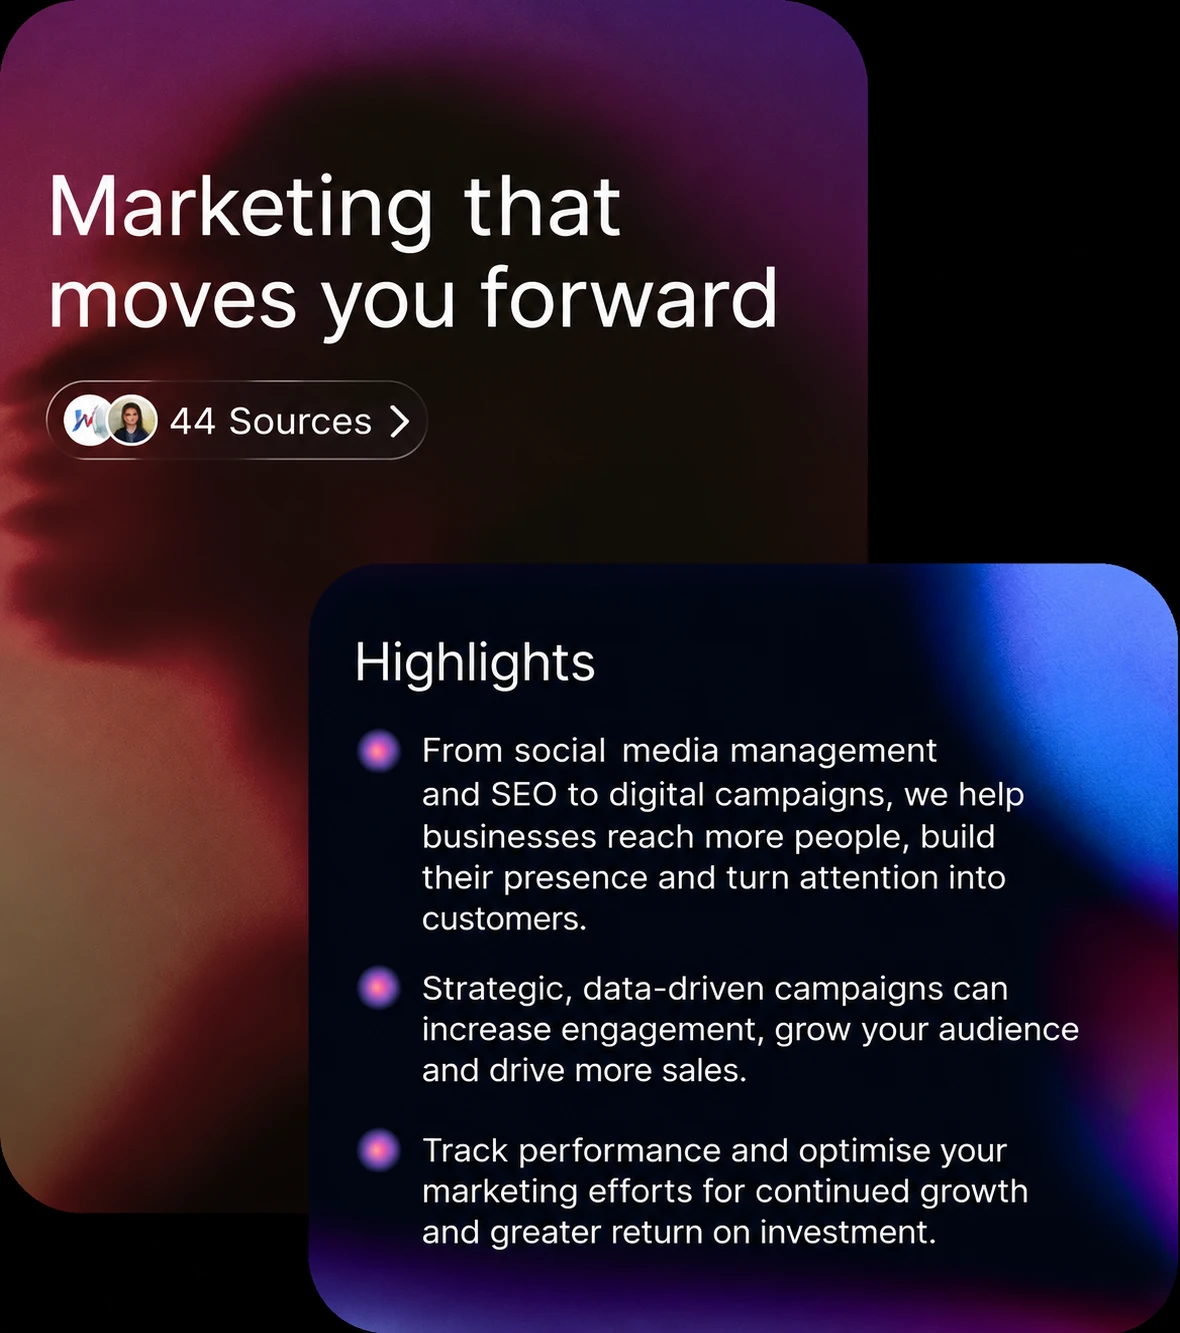
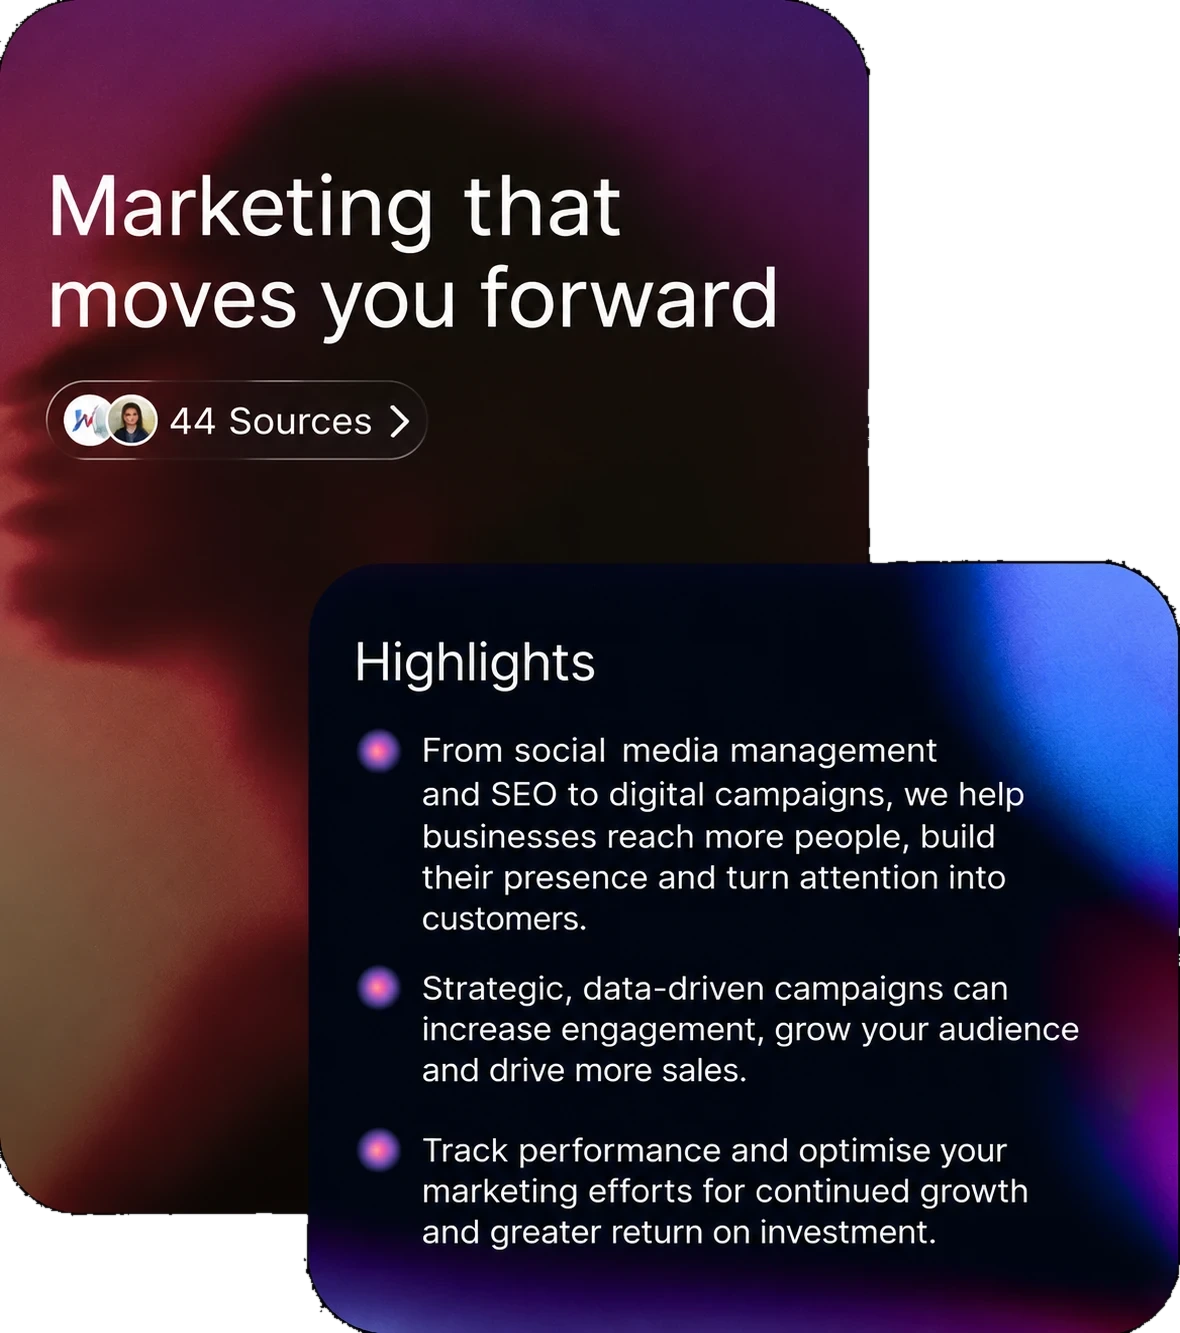
Cut the black field from the marketing composition; square the panels
The supplied image sat on a solid black field, which read as a black box
on the light panel. A plain chroma key would have punched holes in the
Highlights card, whose interior is near-black too, so the black region
connected to the image border is flooded instead. The field is exactly
(0,0,0) and the card interior is (0,5,17), so a threshold of 3 separates
them cleanly: 13.9% of the image is removed, against 13.68% that is pure
black. Saved at WebP q92 with alpha, 130KB.

Also drops the corner radius from the three feature panels.

Claude-Session: https://claude.ai/code/session_01R14VUDMo1v5fr4e9QpYDsc

diff --git a/components/WelcomeFeatures.tsx b/components/WelcomeFeatures.tsx
@@ -51,7 +51,7 @@ export function WelcomeFeatures() {
             <li key={feature.title}>
               <div
                 aria-hidden="true"
-                className="relative aspect-4/3 overflow-hidden rounded-2xl bg-paper-soft ring-1 ring-line"
+                className="relative aspect-4/3 overflow-hidden bg-paper-soft ring-1 ring-line"
               >
                 {feature.image ? (
                   /*
